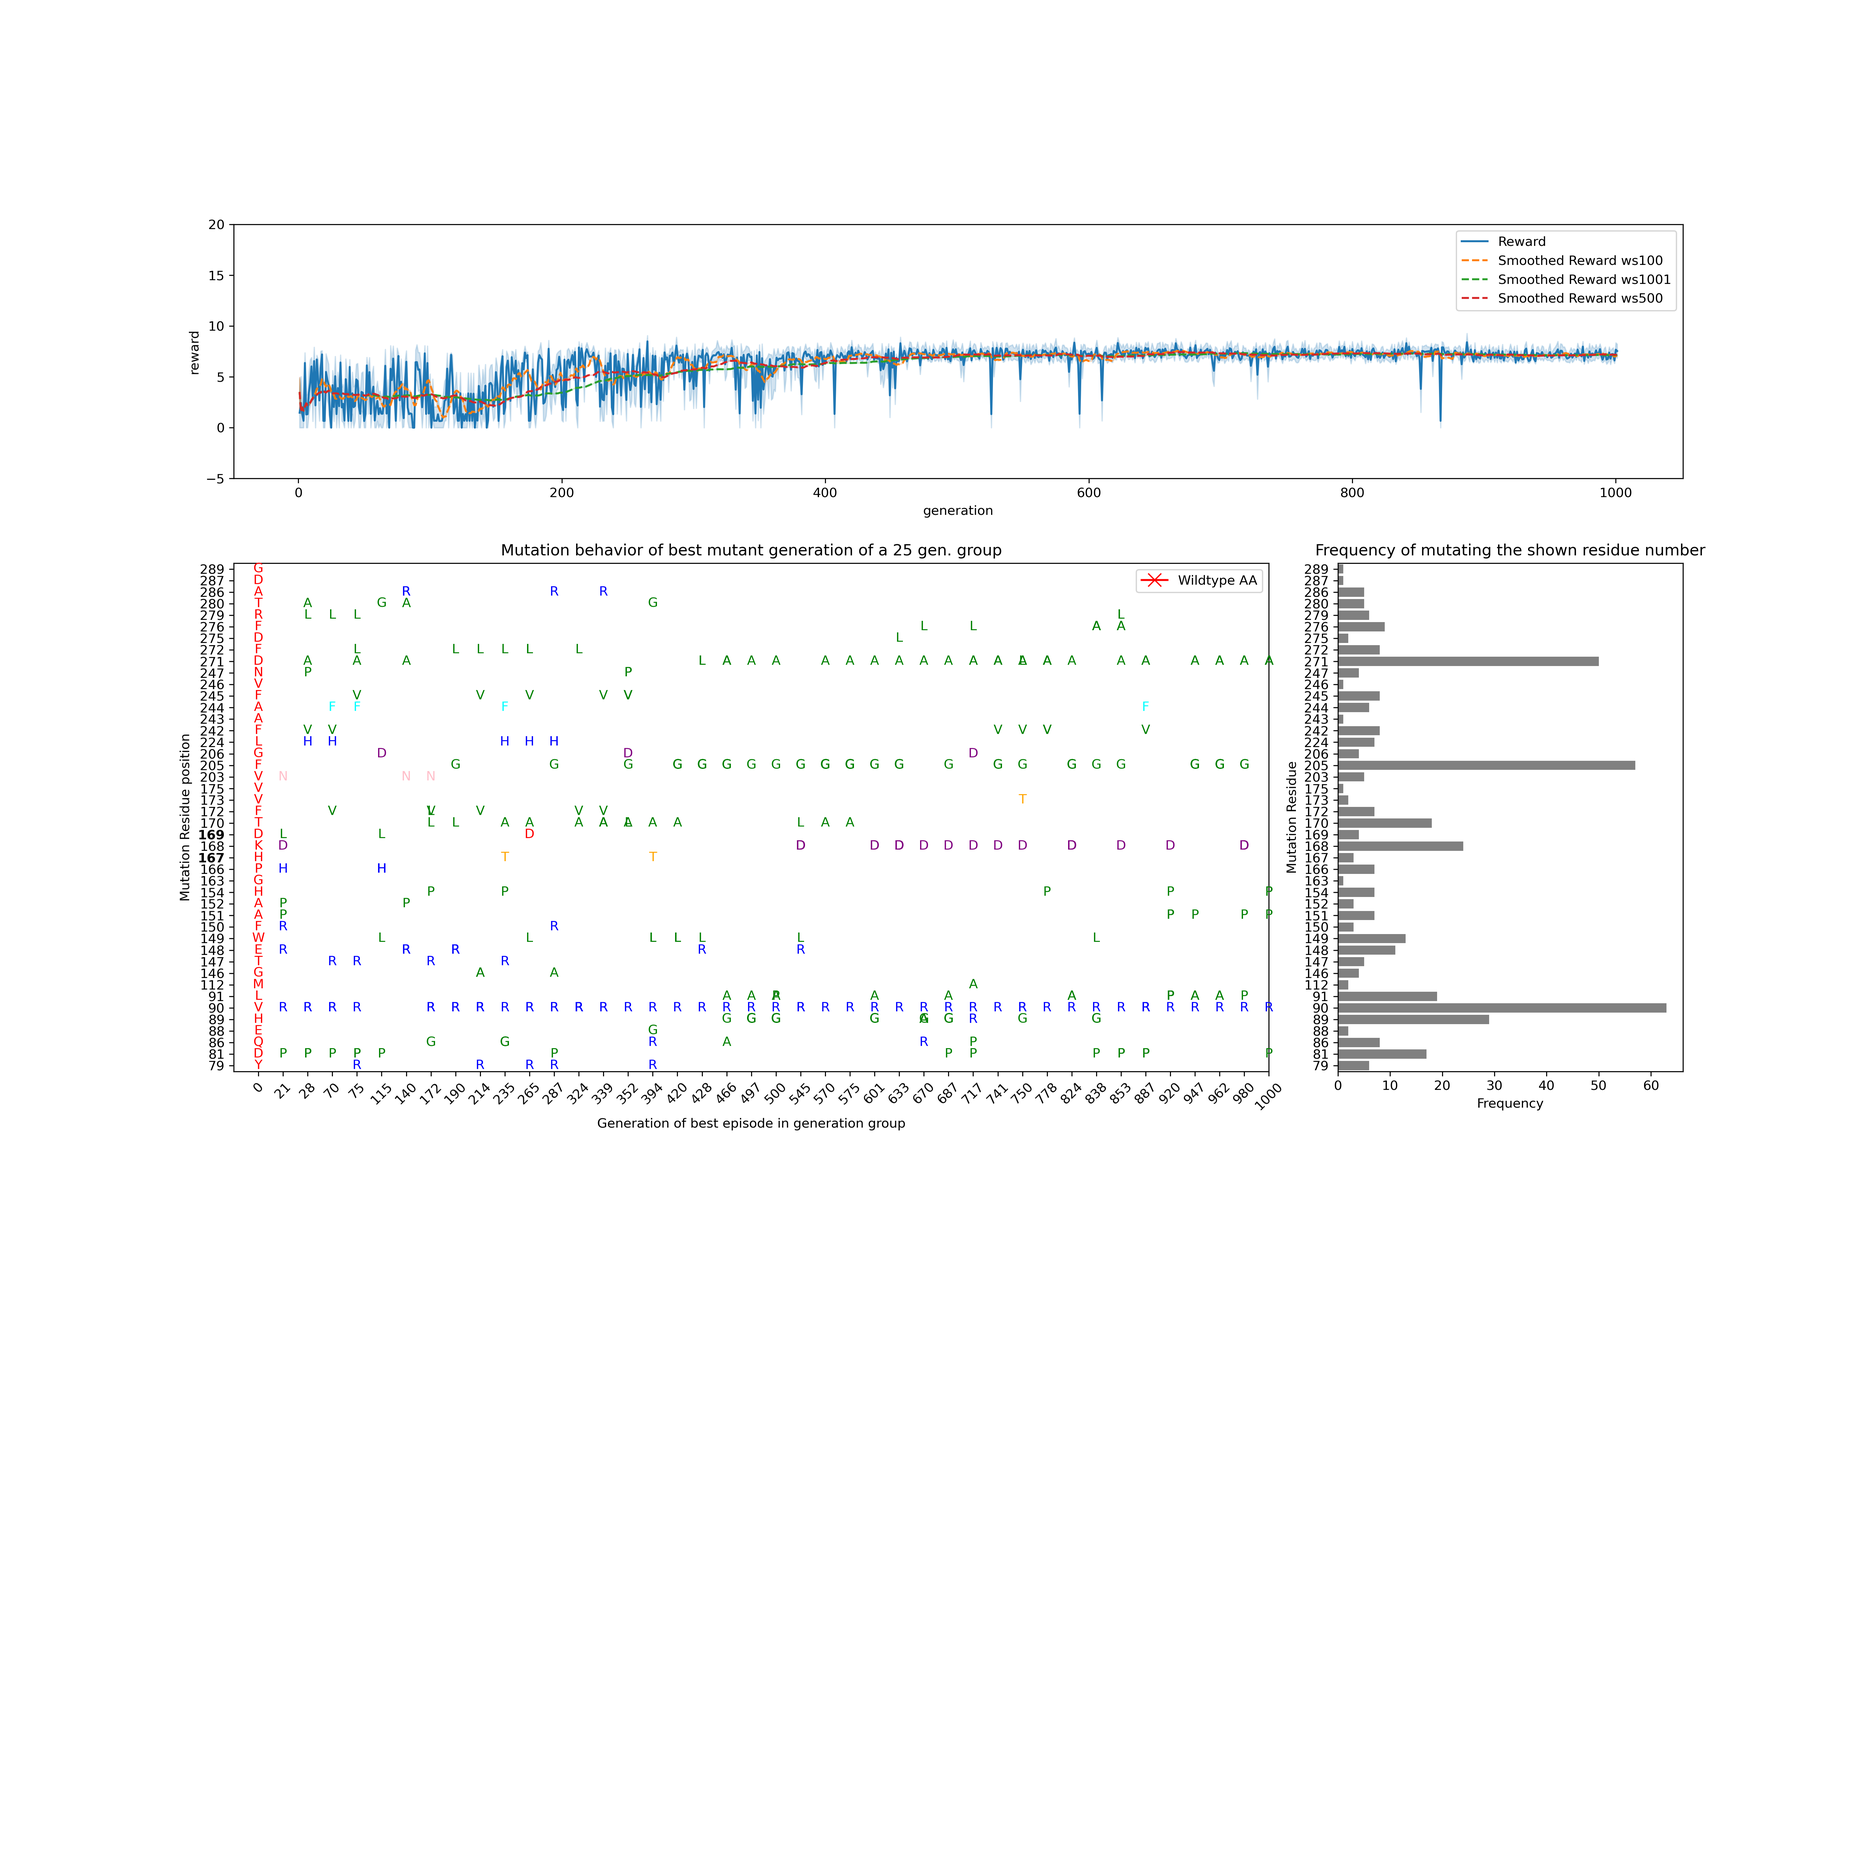
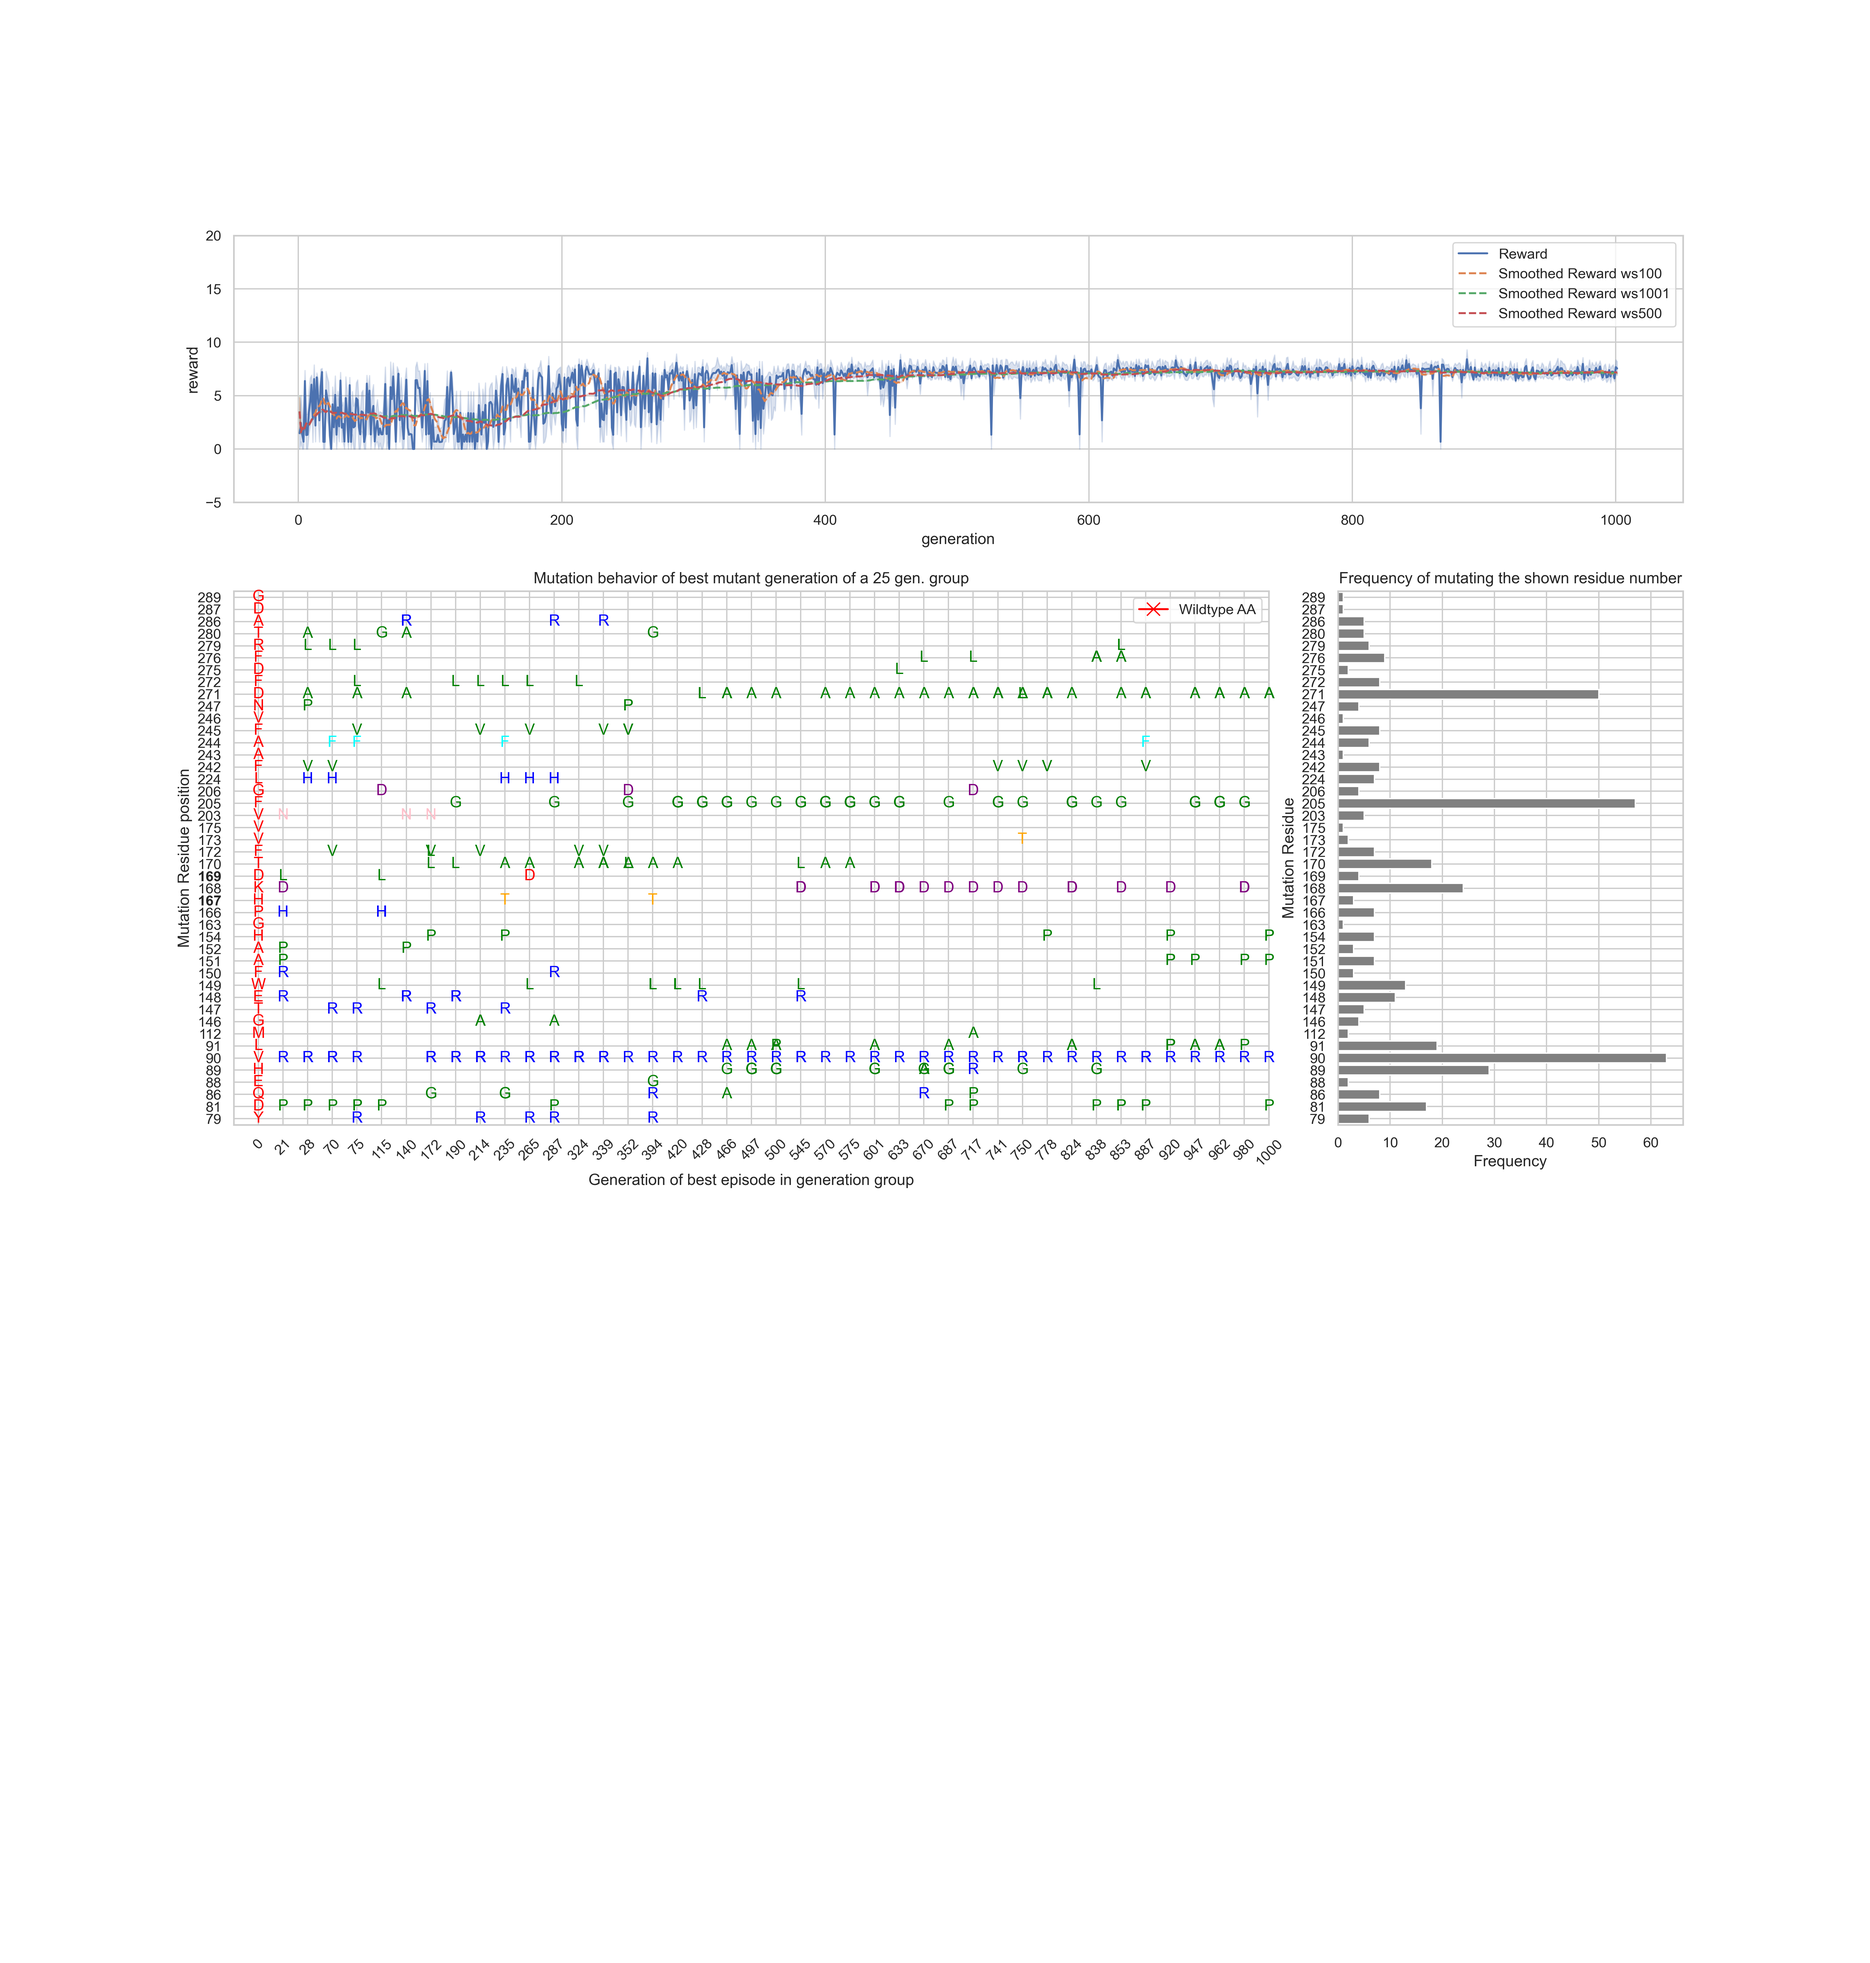
added plots with grid and set input for skipAA

Changed region(s): [[0.0935, 0.2493, 0.9038, 0.5922], [0.1558, 0.1247, 0.9038, 0.2493]]

diff --git a/src/G-Reincatalyze_resultOverview_plot.py b/src/G-Reincatalyze_resultOverview_plot.py
@@ -9,9 +9,10 @@ import os
 def visualizePipelineResults_single(csv_file, refSeq, catTriad = [167, 225, 169], group_size=25, outputFile = "mutation_visualization.png", sns_style = "white"):
     # Load the data
     if sns_style:
-        sns.set_style(sns_style)
+        sns.set_theme()
+        sns.set_style(style=sns_style)
     else:
-        sns.set_style()
+        sns.set_theme()
 
     amino_acid_colors = {
         "A": "green",   # Alanine
@@ -136,12 +137,11 @@ def visualizePipelineResults_single(csv_file, refSeq, catTriad = [167, 225, 169]
     plt.close()
 
 
-def visualizePipelineResults_multi(csv_file, refSeq, window_size= 100, yTop=30, yBot = 0, catTriad = [167, 225, 169], group_size=25, outputFile = "mutation_visualization.png", sns_style = "white"):
+def visualizePipelineResults_multi(csv_file, refSeq, window_size= 100, yTop=30, yBot = 0, catTriad = [167, 225, 169], group_size=25, outputFile = "mutation_visualization.png", sns_style = "whitegrid"):
     # Load the data
-    if sns_style:
-        sns.set_style(sns_style)
-    else:
-        sns.set_style()
+
+    sns.set_style(sns_style)
+
 
     amino_acid_colors = {
         "A": "green",   # Alanine
@@ -227,7 +227,7 @@ def visualizePipelineResults_multi(csv_file, refSeq, window_size= 100, yTop=30, 
     df_freq['y'] = df_freq['mutationResidue'].map(mutationResidue_to_y)
 
 
-    fig = plt.figure(figsize=(20,20))
+    fig = plt.figure(figsize=(20,21))
     gs = fig.add_gridspec(3, 2, height_ratios=[1, 2, 2], width_ratios=[3, 1])  # Adjust these numbers to fit your needs
 
     # Add mutBe plot on top
@@ -335,7 +335,7 @@ if __name__ == "__main__":
         window_size = 100,
         yTop = 20,
         yBot = -5,
-        sns_style=None
+        sns_style='whitegrid'
     )
     kwargs = dotdict(kwargs_)
 
@@ -347,5 +347,12 @@ if __name__ == "__main__":
     )
 
 
-    visualizePipelineResults_multi(csv_file=kwargs.csv_file, refSeq=kwargs.refSeq, group_size=kwargs.group_size, outputFile=kwargs.outputFile,window_size=kwargs.window_size, yTop=kwargs.yTop, yBot = kwargs.yBot)
+    visualizePipelineResults_multi(csv_file=r"C:\Users\kevin\ONEDRI~1\KEVINS~1\ZHAW\_PYTHO~1\_GITHUB\REINCA~1\log\residora\2023_J~4\2023-J~2\2023-J~2.CSV", 
+                                   refSeq=kwargs.refSeq, 
+                                   group_size=kwargs.group_size, 
+                                   outputFile="test.png",
+                                   window_size=kwargs.window_size, 
+                                   yTop=kwargs.yTop, 
+                                   yBot = kwargs.yBot,
+                                   sns_style=kwargs.sns_style)
 

diff --git a/src/main.py b/src/main.py
@@ -54,6 +54,7 @@ def main_Pipeline(runID: str = None, *configUnpack, #this unpacks all the variab
                   runIDExtension : str, 
                   transformerName: str = "facebook/esm2_t6_8M_UR50D", 
                   transformerDevice: str = "cuda:0",
+                  skipAAIfSameAsWildtype: bool = True,
                   gpu_vina: str = True,
                   vina_gpu_cuda_path: str = "/home/cewinharhar/GITHUB/Vina-GPU-2.0/Vina-GPU+/Vina_GPU", 
                   vina_path: str = "/home/cewinharhar/GITHUB/vina_1.2.3_linux_x86_64", 
@@ -381,10 +382,13 @@ def main_Pipeline(runID: str = None, *configUnpack, #this unpacks all the variab
 
             #TODO decide wether to always choose first option
             #iterate over the predicted AA's (first ones have higher score), if the same as wildtype, skip
-            for idx, AA in enumerate(predictedAA):
-                if AA != originalAA:
-                    mutAA = AA
-                    break    
+            if skipAAIfSameAsWildtype == True:
+                for idx, AA in enumerate(predictedAA):
+                    if AA != originalAA:
+                        mutAA = AA
+                        break    
+            else:
+                mutAA = predictedAA[0]
 
             print(mutAA)
             #idx     = 0
